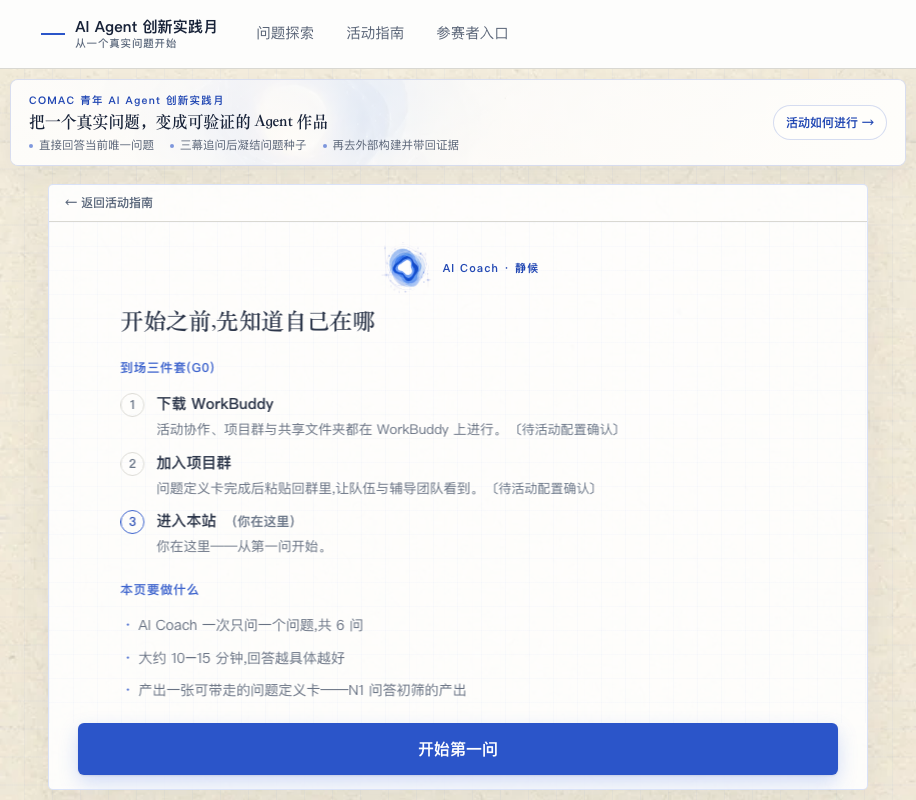
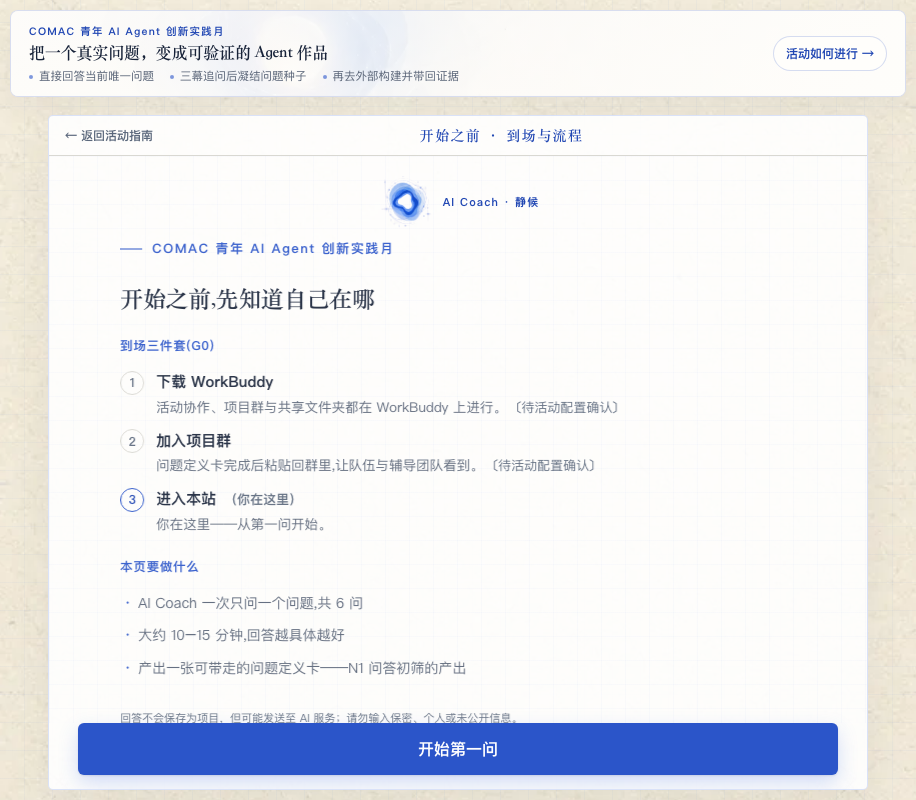
工作台化:砍站点导航栏,顶栏流程位置文字化(§33 K1–K4)

Changed region(s): [[0.0, 0.0, 1.0, 0.2812], [0.1223, 0.2812, 0.6725, 0.9062]]

diff --git a/tests/e2e/hub.spec.ts b/tests/e2e/hub.spec.ts
@@ -44,6 +44,8 @@ test.describe("桌面 1440×900", () => {
     await expect(page.getByRole("link", { name: /返回活动指南/ })).toBeVisible();
     await expect(page.getByRole("link", { name: /换一条入口/ })).toHaveCount(1);
     await expect(page.locator("#intro, #journey, #roles, #faq")).toHaveCount(0);
+    /* §33 K1:工作台页是全幅 Agent 工作台,站点导航栏不渲染 */
+    await expect(page.locator(".hub-header")).toHaveCount(0);
     await expect(page.locator(".hub-footer")).toBeHidden();
     // 首屏不是项目列表或后台:无密集统计卡/排行榜/健康分;
     // 也不把技术名词当首屏卖点(01号基线§10 第16条,§25 C3)
@@ -126,13 +128,13 @@ test.describe("桌面 1440×900", () => {
         `锚点 ${href} 应有对应元素`
       ).toBe(true);
     }
-    // 站内路由全部可达
+    // 站内路由全部可达(§33 K1:工作台无站点导航,链接集=指南出口/换入口/定向层)
     const routes = new Set(
       hrefs
         .filter((h) => h.startsWith("/") && !h.startsWith("/#") && !h.includes("://"))
         .map((h) => h.split("#")[0])
     );
-    expect(routes.size).toBeGreaterThanOrEqual(3);
+    expect(routes.size).toBeGreaterThanOrEqual(2);
     for (const route of routes) {
       const res = await request.get(route);
       expect(res.status(), `GET ${route}`).toBeLessThan(400);
@@ -172,8 +174,9 @@ test.describe("桌面 1440×900", () => {
   });
 
   test("9. 键盘完成角色选择与移动端抽屉(键盘 Esc 复位)", async ({ page }) => {
-    await page.goto("/");
-    // Tab 到参赛者入口并回车
+    /* §33 K1:工作台页已无站点导航,角色入口的规范位置是 /guide「你的下一步」 */
+    await page.goto("/guide");
+    // Tab 到「我是参赛者」并回车
     for (let i = 0; i < 80; i++) {
       const focused = await page.evaluate(() => document.activeElement?.getAttribute("href"));
       if (focused === "/role/participant") break;
@@ -218,7 +221,7 @@ test.describe("移动端 390×844", () => {
     await expect(page.getByRole("heading", { name: ACT_QUESTIONS.idea[0] })).toBeVisible();
   });
 
-  test("11. 移动端 Coach 单焦点场景与抽屉导航", async ({ page }) => {
+  test("11. 移动端 Coach 单焦点场景", async ({ page }) => {
     await page.goto("/start");
     await beginCoach(page);
     await expect(page.getByRole("heading", { name: ACT_QUESTIONS.problem[0] })).toBeVisible();
@@ -228,15 +231,9 @@ test.describe("移动端 390×844", () => {
     await expect(
       page.getByRole("heading", { name: ACT_QUESTIONS.problem[1] })
     ).toBeVisible({ timeout: 15_000 });
+    /* §33 K1:工作台页站点导航(含 burger 抽屉)已移除;
+       抽屉导航闭环由 a11y 套件在 /guide 覆盖 */
+    await expect(page.locator(".hub-header")).toHaveCount(0);
     await page.screenshot({ path: `${SHOTS}/coach-390.png` });
-
-    // 抽屉:打开 → 链接可达 → Esc 关闭并归还焦点
-    const burger = page.getByRole("button", { name: "打开导航菜单" });
-    await burger.click();
-    await expect(page.locator("#hub-drawer")).toHaveAttribute("data-open", "true");
-    await expect(page.locator("#hub-drawer").getByRole("link", { name: "活动指南" })).toBeVisible();
-    await page.keyboard.press("Escape");
-    await expect(page.locator("#hub-drawer")).toHaveAttribute("data-open", "false");
-    await expect(burger).toBeFocused();
   });
 });

diff --git a/components/hub/coach-workspace-scene.tsx b/components/hub/coach-workspace-scene.tsx
@@ -31,6 +31,7 @@ export function CoachWorkspaceScene({
   nextAct,
   actIndex,
   actCount,
+  stageLabels,
   value,
   error,
   transitioning,
@@ -68,6 +69,8 @@ export function CoachWorkspaceScene({
   nextAct: CoachAct | null;
   actIndex: number;
   actCount: number;
+  /** §33 K2:顶栏流程位置文字化的各幕/轮标签(如 问题/影响/Agent 必要性) */
+  stageLabels: readonly string[];
   value: string;
   error: string | null;
   transitioning: boolean;
@@ -205,12 +208,15 @@ export function CoachWorkspaceScene({
           className="coach-workspace-count"
           aria-label={
             counterPrefix
-              ? `${counterPrefix}第 ${displayActIndex + 1} 轮，共 ${actCount} 轮`
-              : `第 ${displayActIndex + 1} 幕，共 ${actCount} 幕`
+              ? `${counterPrefix}第 ${displayActIndex + 1} 轮，共 ${actCount} 轮:${stageLabels[displayActIndex] ?? ""}`
+              : `第 ${displayActIndex + 1} 幕，共 ${actCount} 幕:${stageLabels[displayActIndex] ?? ""}`
           }
         >
+          {/* §33 K2:流程位置文字化——纯数字只有进度感,文字才是流程引导 */}
           {counterPrefix && <span className="coach-count-prefix">{counterPrefix} </span>}
-          {String(displayActIndex + 1).padStart(2, "0")} / {String(actCount).padStart(2, "0")}
+          {`第 ${displayActIndex + 1} ${counterPrefix ? "轮" : "幕"} · ${
+            stageLabels[displayActIndex] ?? ""
+          }(共 ${actCount} ${counterPrefix ? "轮" : "幕"})`}
         </p>
         {returnAction ? (
           <button

diff --git a/components/hub/coach-intro-scene.tsx b/components/hub/coach-intro-scene.tsx
@@ -3,6 +3,7 @@
 import Link from "next/link";
 import { coachIntroCopy, coachPrivacyNotice } from "@/fixtures/coach-demo";
 import { arrivalSteps, PENDING_LABEL } from "@/config/activity";
+import { site } from "@/config/site";
 import { COACH_STATE_LABELS, CoachOrb } from "./coach-orb";
 
 /**
@@ -28,6 +29,8 @@ export function CoachIntroScene({
         <Link href={guideHref} className="coach-topbar-back hub-quiet-link">
           ← 返回活动指南
         </Link>
+        {/* §33 K2/K3:工作台无站点导航栏,顶栏中央给出流程位置与活动身份 */}
+        <p className="coach-workspace-count">开始之前 · 到场与流程</p>
         <span className="coach-topbar-spacer" aria-hidden="true" />
       </div>
 
@@ -42,7 +45,10 @@ export function CoachIntroScene({
         </div>
 
         <div className="coach-intro motion-step-in" data-coach-intro>
-          {/* 任一时刻只有一个语义主标题 */}
+          {/* 任一时刻只有一个语义主标题;眉行补活动身份(§33 K3:头部已移除) */}
+          <p className="hub-eyebrow" data-coach-intro-brand>
+            {site.brand.name}
+          </p>
           <h1 className="coach-question" id="coach-intro-title">
             {coachIntroCopy.title}
           </h1>

diff --git a/tests/e2e/hub-journey.spec.ts b/tests/e2e/hub-journey.spec.ts
@@ -57,6 +57,12 @@ test.describe("J-1 建立拍", () => {
     await expect(intro).toBeVisible();
     await expect(page.locator("h1")).toHaveCount(1);
     await expect(page.locator("h1")).toHaveText(coachIntroCopy.title);
+    /* §33:站点导航栏不在场;品牌眉行补活动身份,顶栏给流程位置 */
+    await expect(page.locator(".hub-header")).toHaveCount(0);
+    await expect(page.locator("[data-coach-intro-brand]")).toHaveText(
+      "COMAC 青年 AI Agent 创新实践月",
+    );
+    await expect(page.locator(".coach-workspace-count")).toHaveText("开始之前 · 到场与流程");
     for (const key of ["workbuddy", "group", "site"] as const) {
       await expect(page.locator(`[data-intro-step="${key}"]`)).toBeVisible();
     }
@@ -86,6 +92,8 @@ test.describe("J-1 建立拍", () => {
 
     await begin.click();
     await expect(page.getByRole("heading", { name: FIRST_QUESTION })).toBeVisible();
+    /* §33 K2:顶栏流程位置文字化 */
+    await expect(page.locator(".coach-workspace-count")).toHaveText("第 1 幕 · 问题(共 3 幕)");
     await expect(page.locator("#coach-answer")).toBeVisible();
     await expect
       .poll(() => page.evaluate(() => document.activeElement?.id), { timeout: 15_000 })

diff --git a/tests/e2e/hub.a11y.spec.ts b/tests/e2e/hub.a11y.spec.ts
@@ -34,7 +34,9 @@ test.describe("Hub 无障碍与响应式深化", () => {
     await expect(
       page.getByRole("heading", { name: "你最想改变的具体工作瞬间是什么?" })
     ).toBeVisible();
-    await expect(page.getByRole("navigation", { name: "主导航" })).toBeVisible();
+    /* §33 K1:工作台页站点导航不渲染(主导航/burger/品牌图都不在场) */
+    await expect(page.getByRole("navigation", { name: "主导航" })).toHaveCount(0);
+    await expect(page.locator(".hub-header")).toHaveCount(0);
     await expect(page.getByRole("button", { name: "打开导航菜单" })).toHaveCount(0);
     await expect(page.locator(".hub-brand img")).toHaveCount(0);
     const switchEntry = page.getByRole("link", { name: /换一条入口/ });

diff --git a/tests/e2e/hub-coach-persona.spec.ts b/tests/e2e/hub-coach-persona.spec.ts
@@ -61,7 +61,7 @@ test.describe("状态 A:种子前的减法布局(桌面 1440×900)", () => {
 
     // 保留的七个元素:极弱返回、幕号、Coach 状态提示、主问题、回答器、附件按钮、主提交
     await expect(page.getByRole("link", { name: /返回活动指南/ })).toBeVisible();
-    await expect(page.getByText("01 / 03")).toBeVisible();
+    await expect(page.getByText("第 1 幕 · 问题(共 3 幕)")).toBeVisible();
     // begin 后焦点接续到回答器(§31 J-1),状态提示由"静候"转为"倾听",均为合法首幕态
     await expect(page.getByText(/AI Coach · (静候|倾听)/)).toBeVisible();
     await expect(page.getByRole("heading", { name: QUESTIONS[0] })).toBeVisible();

diff --git a/components/hub/hub-header.tsx b/components/hub/hub-header.tsx
@@ -58,6 +58,7 @@ export function HubHeader() {
         close();
         return;
       }
+
       if (e.key !== "Tab") return;
       const scope = drawerRef.current;
       if (!scope) return;
@@ -83,6 +84,10 @@ export function HubHeader() {
       document.body.style.overflow = previousOverflow;
     };
   }, [open, close]);
+
+  /* §33 K1:工作台页是全幅 Agent 工作台,站点导航栏在此只增加使用与理解成本,
+     直接不渲染(布局为 flex,主区自动占满);指南/角色等内容页保留站点 chrome */
+  if (onWorkbench) return null;
 
   return (
     /* 抽屉必须留在 header 之外:header 的 backdrop-filter 会成为

diff --git a/components/hub/coach-flow.tsx b/components/hub/coach-flow.tsx
@@ -727,6 +727,7 @@ export function CoachFlow({
             nextAct={artifactStage ? artifactNextAct : nextAct}
             actIndex={artifactStage ? state.artifactRound : state.actIndex}
             actCount={artifactStage ? ARTIFACT_ROUND_COUNT : ACT_COUNT}
+            stageLabels={artifactStage ? artifactCopy.dimensionLabels : TRACE_LABELS}
             counterPrefix={artifactStage ? artifactCopy.counterPrefix : undefined}
             value={answer}
             error={state.error}
